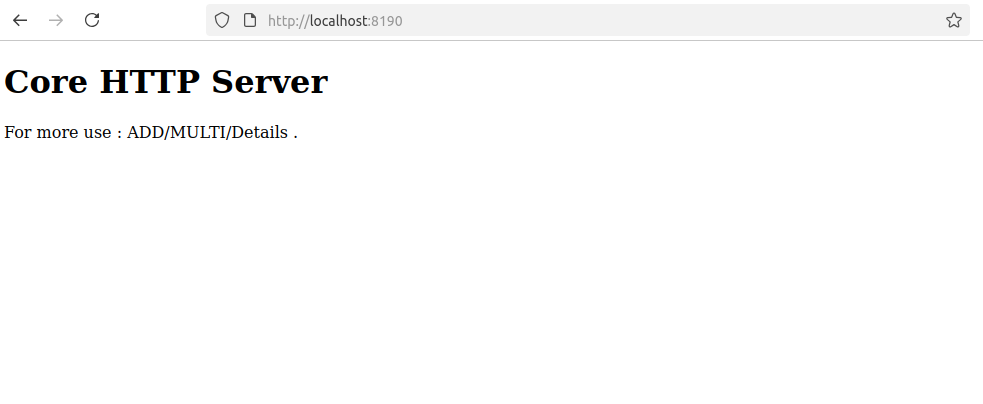
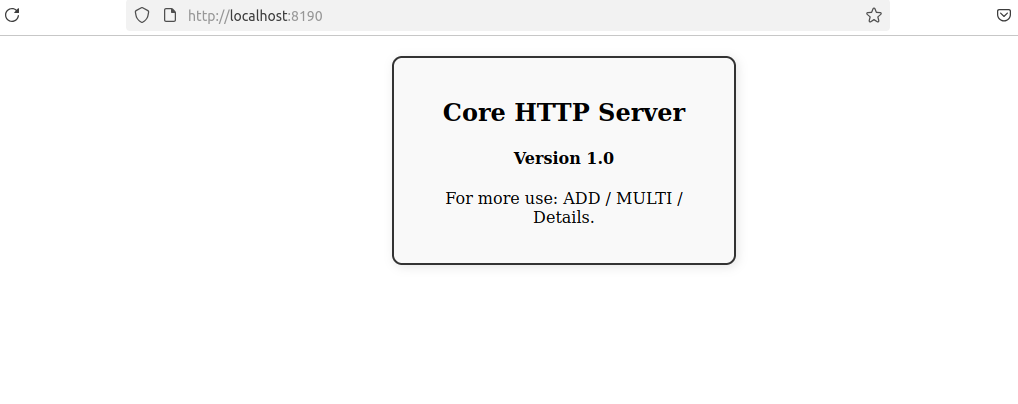
added HTTPS

diff --git a/HTTP_Handler.cpp b/HTTP_Handler.cpp
@@ -6,7 +6,36 @@
 */
 #include "HTTP_Handler.h"
 
+QString tmp_html = R"(
+<!DOCTYPE html>
+<html lang="en">
+<head>
+    <style>
+        .box {
+            width: 300px;
+            margin: 20px auto;
+            padding: 20px;
+            border: 2px solid #333;
+            background-color: #f9f9f9;
+            border-radius: 10px;
+            box-shadow: 2px 2px 10px rgba(0,0,0,0.1);
+            text-align: center;
+        }
+    </style>
+</head>
+<body>
+    <div class="box">
+        <h2>Core HTTP Server</h2>
+        <h4>Version 1.0</h4>
+        <p>For more use: ADD / MULTI / Details.</p>
+    </div>
+</body>
+</html>
+)";
+
 QStringList def_params = {"ADD","MULTI"};
+bool isReplied = false;
+
 
 /**
  * @brief HTTP_Handler::HTTP_Handler
@@ -15,10 +44,75 @@ QStringList def_params = {"ADD","MULTI"};
 HTTP_Handler::HTTP_Handler(QObject *parent)
     : QObject{parent}
 {
-    m_processRequest();
-    obj_svr.listen("0.0.0.0", 8190);
 
 }
+
+void HTTP_Handler::m_Start()
+{
+    qDebug()<<"Starting HTTP Server (HTTP). ";
+
+    m_processRequest();
+    obj_svr.listen("0.0.0.0", 8190);
+}
+
+void HTTP_Handler::m_StartSecure()
+{
+    qDebug()<<"Starting Secure HTTP Server (HTTPS). ";
+
+    QByteArray certData = m_loadResource(":ssl/arise1600_local.crt");
+    QByteArray keyData = m_loadResource(":ssl/arise1600_local.key");
+
+    auto setup_ssl = [certData, keyData](SSL_CTX& ctx) {
+        BIO* bio_cert = BIO_new_mem_buf(certData.constData(), certData.size());
+        X509* cert = PEM_read_bio_X509(bio_cert, nullptr, nullptr, nullptr);
+        BIO_free(bio_cert);
+
+        BIO *bio_key = BIO_new_mem_buf(keyData.data(), keyData.size());
+        EVP_PKEY *pkey = PEM_read_bio_PrivateKey(bio_key, nullptr, nullptr, nullptr);
+        BIO_free(bio_key);
+
+        if (!cert || !pkey) {
+            qCritical() << "Failed to load cert or key from memory";
+            if (cert) X509_free(cert);
+            if (pkey) EVP_PKEY_free(pkey);
+            return false;
+        }
+
+        if (SSL_CTX_use_certificate(&ctx, cert) != 1) {
+            qCritical() << "Failed to use certificate";
+            X509_free(cert);
+            EVP_PKEY_free(pkey);
+            return false;
+        }
+
+        if (SSL_CTX_use_PrivateKey(&ctx, pkey) != 1) {
+            qCritical() << "Failed to use private key";
+            X509_free(cert);
+            EVP_PKEY_free(pkey);
+            return false;
+        }
+
+        X509_free(cert);
+        EVP_PKEY_free(pkey);
+        return true;
+    };
+
+    obj_Secure_svr = std::make_unique<httplib::SSLServer>(setup_ssl);
+    m_processRequest_secure();
+    obj_Secure_svr->listen("0.0.0.0", 8193);
+
+}
+
+QByteArray HTTP_Handler::m_loadResource(const QString& resourcePath)
+{
+    QFile file(resourcePath);
+    if (!file.open(QIODevice::ReadOnly)) {
+        qCritical() << "Failed to load resource:" << resourcePath;
+        return QByteArray();
+    }
+    return file.readAll();
+}
+
 /**
  * @brief m_ResultRequestedData
  * @param indx
@@ -91,14 +185,7 @@ void HTTP_Handler::m_processRequest()
 {
     obj_svr.Get("/", [](const httplib::Request& req, httplib::Response& res)
     {
-        QString tmp = "<!DOCTYPE html> \
-                <html lang=\"en\"> \
-                <body> \
-                <h1>Core HTTP Server </h1> \
-                <p>For more use : ADD/MULTI/Details .</p> \
-                </body>\
-                </html>";
-        res.set_content(tmp.toStdString(),"text/html");
+        res.set_content(tmp_html.toStdString(),"text/html");
     });
 
 
@@ -129,9 +216,7 @@ void HTTP_Handler::m_processRequest()
 
         QString str_response = m_ResultRequestedData(found_param_index, isExist, t_Values);
         res.set_content(str_response.toStdString(),"text/xml");
-
     });
-
 
     obj_svr.Get("/Details", [](const httplib::Request& req, httplib::Response& res)
     {
@@ -166,5 +251,76 @@ void HTTP_Handler::m_processRequest()
         delete objProcess;
     });
 
+}
+
+void HTTP_Handler::m_processRequest_secure()
+{
+    obj_Secure_svr->Get("/", [](const httplib::Request& req, httplib::Response& res)
+    {
+        res.set_content(tmp_html.replace("HTTP ","HTTPS ").toStdString(),"text/html");
+    });
+
+
+    obj_Secure_svr->Get("/maths", [](const httplib::Request& req, httplib::Response& res)
+    {
+        std::multimap<std::string, std::string> req_Params = req.params;
+        QString t_Key, t_Values;
+        for (const auto& [key, value] : req_Params) {
+                t_Key = QString::fromStdString(key);
+                t_Values = QString::fromStdString(value);
+                qDebug()<< t_Key <<" -> " <<t_Values;
+            }
+
+        bool isExist = false;
+        int indx_param = 0, found_param_index = -1;
+        foreach(QString tmpParam, def_params)
+        {
+            if(req.has_param(tmpParam.toStdString()))
+            {
+                isExist = true;
+                found_param_index = indx_param;
+            }
+
+            indx_param ++;
+        }
+
+        qDebug()<< "found_param_index ="<< found_param_index << ",isExist "<<isExist;
+
+        QString str_response = m_ResultRequestedData(found_param_index, isExist, t_Values);
+        res.set_content(str_response.toStdString(),"text/xml");
+    });
+
+    obj_Secure_svr->Get("/Details", [](const httplib::Request& req, httplib::Response& res)
+    {
+        Q_UNUSED(req)
+        QProcess *objProcess = new QProcess;
+        auto os = QOperatingSystemVersion::currentType();
+        QByteArray res_data;
+        QString cmd;
+        QStringList args;
+
+        switch (os)
+        {
+        case QOperatingSystemVersion::Windows:
+            qDebug() << "Runtime OS: Windows";
+            cmd = "systeminfo";
+            objProcess->start(cmd,args);
+            objProcess->waitForFinished();
+            res_data = objProcess->readAllStandardOutput();
+            res.set_content(res_data.toStdString(),"text/plain");
+            break;
+        default:
+            qDebug() << "Runtime OS: LINUX";
+            cmd = "lshw";
+            args << "-html";
+            objProcess->start(cmd,args);
+            objProcess->waitForFinished();
+            res_data = objProcess->readAllStandardOutput();
+            res.set_content(res_data.toStdString(),"text/html");
+            break;
+        }
+
+        delete objProcess;
+    });
 
 }

diff --git a/HTTP_Handler.h b/HTTP_Handler.h
@@ -7,23 +7,32 @@
 #ifndef HTTP_HANDLER_H
 #define HTTP_HANDLER_H
 
-#include <QObject>
 #include "httplib.h"
+
+#include <QObject>
 #include "QDebug"
 #include "QProcess"
 #include "QOperatingSystemVersion"
+#include "QFile"
+
 
 class HTTP_Handler : public QObject
 {
     Q_OBJECT
 public:
     explicit HTTP_Handler(QObject *parent = nullptr);
-
+    void m_Start();
+    void m_StartSecure();
 signals:
 private:
-    httplib::Server obj_svr;
+    QByteArray m_loadResource(const QString &resourcePath);
+    httplib::Server obj_svr; // http
+    const char* cert_path = "server.crt";
+    const char* private_key_path = "server.key";
+//    httplib::SSLServer *obj_Secure_svr;//(cert_path, private_key_path,,,); // https
+    std::unique_ptr<httplib::SSLServer> obj_Secure_svr;
     void m_processRequest();
-
+    void m_processRequest_secure();
 };
 
 #endif // HTTP_HANDLER_H

diff --git a/main.cpp b/main.cpp
@@ -13,6 +13,8 @@ int main()
 {
     qDebug() << "STARTING HTTP SERVER !";
     HTTP_Handler obj;
+    //obj.m_Start();
+    obj.m_StartSecure();
 
     return 0;
 }

diff --git a/README.md b/README.md
@@ -1,6 +1,10 @@
 # CoreHttpServer 
 This is a HTTP Server, It has full of http request controls . It can be use with https(openssl).
 
+## Dependencies install
+
+			sudo apt-get update
+			sudo apt-get install -y build-essential make cmake qtbase5-dev qt5-qmake git libssl1.0-dev
 
 ## Compile/build and Run
 
@@ -27,8 +31,22 @@ comiple with anyone (Cmake/Qmake)
 		./CoreHttpServer
 		
 * Open web-browser http://localhost:8190/ or http://localhost:8190/maths?
+* Open web-browser https://localhost:8193/ or https://localhost:8193/maths? 
 
-## Home Page
+
+### To start http
+Edit main.cpp & re-build
+	
+	obj.m_Start();
+    	//obj.m_StartSecure();
+    	
+### To start https
+Edit main.cpp & re-build
+	
+	//obj.m_Start();
+    	obj.m_StartSecure();
+
+## Home Page (HTTP)
 
 ![alt text](https://github.com/aks-arise1600/CoreHttpServer/blob/main/docs/Screenshots/Screenshot000.png?raw=true)
 
@@ -37,13 +55,21 @@ comiple with anyone (Cmake/Qmake)
 
 ![alt text](https://github.com/aks-arise1600/CoreHttpServer/blob/main/docs/Screenshots/Screenshot001.png?raw=true)
 
+
 ## MULTIPLICATION EXAMPLE
 
 ![alt text](https://github.com/aks-arise1600/CoreHttpServer/blob/main/docs/Screenshots/Screenshot002.png?raw=true)
 
+
 ## ERROR EXAMPLE
 
 ![alt text](https://github.com/aks-arise1600/CoreHttpServer/blob/main/docs/Screenshots/Screenshot003.png?raw=true)
+
+
+## Home Page (HTTPS)
+
+![alt text](https://github.com/aks-arise1600/CoreHttpServer/blob/main/docs/Screenshots/Screenshot004.png?raw=true)
+
 
 
 
